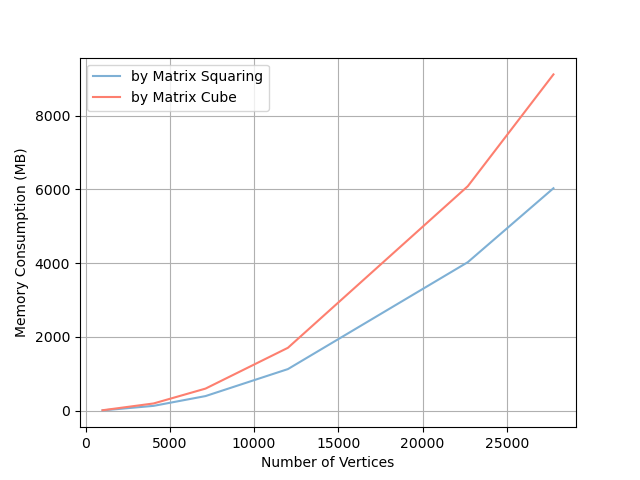
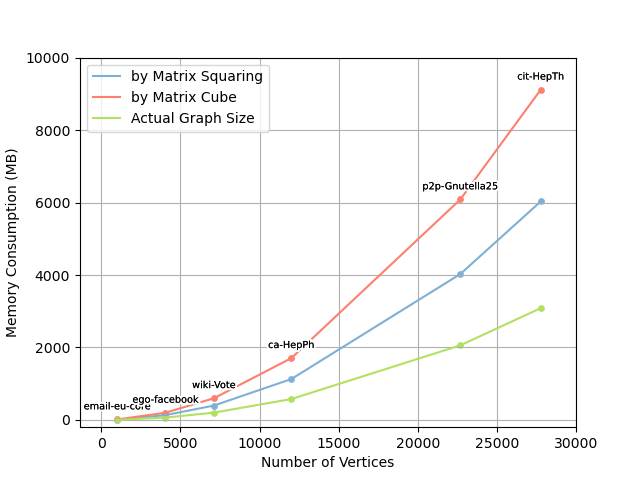
plots adjustements

diff --git a/experimentations/plots/MatrixVV/SGEMMvsSSYMMNincreasing.py b/experimentations/plots/MatrixVV/SGEMMvsSSYMMNincreasing.py
@@ -1,8 +1,7 @@
 import os
 import matplotlib.pyplot as plt
-from matplotlib import patheffects  # Importing patheffects module
+from matplotlib import patheffects 
 
-# Data
 names = ['email-eu-core', 'ego-facebook', 'wiki-Vote', 'ca-HepPh', 'p2p-Gnutella25', 'cit-HepTh']
 x = [1005, 4039, 7115, 12008, 22687, 27770]  # X-axis values
 y1 = [50.272, 1594.24, 7884.23, 36253.2, 258631, 423290.0]  # SQUARE_SGEMM
@@ -10,7 +9,6 @@ y2 = [47.5808, 1637.14, 7848.04, 35590.6, 253533.0, 430125.0]  # SQUARE_SSYMM
 y3 = [84.2148, 3062.32, 15432.5, 72320.1, 520383.0, 857926.0]  # CUBE_SGEMM
 y4 = [82.4794, 3053.64, 15153.0, 70376.5, 502324.0, 850689.0]  # CUBE_SSYMM
 
-# Error rates (minimum and maximum values)
 y1_min = [50.272 - 43.9203, 1594.24 - 1554.81, 7884.23 - 7794.17, 36253.2 - 35727.5, 258631 - 254947.0, 423290.0 - 416294.0]
 y1_max = [79.7560 - 50.272, 1751.35 - 1594.24, 8078.43 - 7884.23, 37430.9 - 36253.2, 265854.0 - 258631, 429604.0 - 423290.0]
 y2_min = [47.5808 - 46.8652, 1637.14 - 1514.95, 7848.04 - 7660.52, 35590.6 - 35222.9, 253533.0 - 243195.0, 430125.0 - 417737.0]
@@ -20,46 +18,38 @@ y3_max = [105.967 - 84.2148, 3118.67 - 3062.32, 15607.3 - 15432.5, 74949.7 - 723
 y4_min = [82.4794 - 77.7922, 3053.64 - 2989.09, 15153.0 - 15071.7, 70376.5 - 69612.1, 502324.0 - 491920.0, 850689.0 - 845556.0]
 y4_max = [88.7619 - 82.4794, 3488.67 - 3053.64, 15640.2 - 15153.0, 74573.3 - 70376.5, 511877.0 - 502324.0, 860742.0 - 850689.0]
 
-# Plotting
 plt.figure(figsize=(10, 6))
 
-# Plot data
 plt.plot(x, y1, label='by Matrix Squaring using SGEMM', color='#ff5733')  # SGEMM
 plt.plot(x, y2, label='by Matrix Squaring using SSYMM', color='#33ffbd')  # SSYMM
 plt.plot(x, y3, label='by Matrix Cube using SGEMM', color='#ff338a')  # SGEMM
 plt.plot(x, y4, label='by Matrix Cube using SSYMM', color='#3366ff')  # SSYMM
 
-# Add error bars
 plt.errorbar(x, y1, yerr=[y1_min, y1_max], capsize=5, label='_error', color='#ff5733', alpha=0.5)  # SGEMM
 plt.errorbar(x, y2, yerr=[y2_min, y2_max], capsize=5, label='_error', color='#33ffbd', alpha=0.5)  # SSYMM
 plt.errorbar(x, y3, yerr=[y3_min, y3_max], capsize=5, label='_error', color='#ff338a', alpha=0.5)  # SGEMM
 plt.errorbar(x, y4, yerr=[y4_min, y4_max], capsize=5, label='_error', color='#3366ff', alpha=0.5)  # SSYMM
 
-# Define function to add contour to the text
 def add_contour(text):
     return [patheffects.withStroke(linewidth=3, foreground='white'), patheffects.Normal()]
 
-# Annotate error bars with min, avg, max values
 for i in range(len(x)):
-    # SGEMM colors
+    #SGEMM colors
     text1 = plt.text(x[i] + 100, y1[i] - 12000, f'+{y1_max[i]:.2f}\n{y1[i]:.2f}\n-{y1_min[i]:.2f}', ha='left', va='top', fontsize=6, color='#ff5733')
     text1.set_path_effects(add_contour(text1))  # Add contour to the text
     text2 = plt.text(x[i] + 100, y3[i] + 12000, f'+{y3_max[i]:.2f}\n{y3[i]:.2f}\n-{y3_min[i]:.2f}', ha='left', va='bottom', fontsize=6, color='#ff338a')
     text2.set_path_effects(add_contour(text2))  # Add contour to the text
     
-    # SSYMM colors
+    #SSYMM colors
     text3 = plt.text(x[i] - 100, y2[i] - 12000, f'+{y2_max[i]:.2f}\n{y2[i]:.2f}\n-{y2_min[i]:.2f}', ha='right', va='top', fontsize=6, color='#33dd33')
     text3.set_path_effects(add_contour(text3))  # Add contour to the text
     text4 = plt.text(x[i] - 100, y4[i] + 12000, f'+{y4_max[i]:.2f}\n{y4[i]:.2f}\n-{y4_min[i]:.2f}', ha='right', va='bottom', fontsize=6, color='#3366ff')
     text4.set_path_effects(add_contour(text4))  # Add contour to the text
 
-    # graph name
+    #Graph name
     text5 = plt.text(x[i], y3[i] + 110000, names[i], ha='center', va='top', fontsize=8, color='black')
     text5.set_path_effects(add_contour(text5))
 
-
-
-# Labels and title
 plt.xlabel('Number of Vertices')
 plt.ylabel('Running Time (ms)')
 plt.title('BLAS functions comparaison over n')
@@ -70,7 +60,7 @@ plt.yticks(range(-100000, 1000001, 100000))
 
 
 # Padding at the bottom and right
-plt.xlim(- 1000, 30000)
+plt.xlim(-1000, 30000)
 plt.ylim(-90000, 990000)
 
 # Show plot

diff --git a/experimentations/plots/MatrixVV/NaiveNincreasingMemory.py b/experimentations/plots/MatrixVV/NaiveNincreasingMemory.py
@@ -1,18 +1,36 @@
 import os
 import matplotlib.pyplot as plt
+from matplotlib import patheffects
 
+names = ['email-eu-core', 'ego-facebook', 'wiki-Vote', 'ca-HepPh', 'p2p-Gnutella25', 'cit-HepTh']
 num_vertices = [1005, 4039, 7115, 12008, 22687, 27770]
 memory_1 = [9.212, 132.476, 397.072, 1128.804, 4026.228, 6029.328 ] 
 memory_2 = [13.2521, 197.730, 599.565, 1705.572, 6085.027, 9114.019 ]
+actual_size = [4.040, 65.254, 202.492, 576.768, 2058.799, 3084.691 ]
+
+def add_contour(text):
+    return [patheffects.withStroke(linewidth=3, foreground='white'), patheffects.Normal()]
 
 #memory_1 = [13.372, 198.248, 595.112, 1692.820, 6038.800, 9043.372 ] 
 #memory_2 = [17.412, 263.502, 797.605, 2269.588, 8097.599, 12128.063 ]
 
 plt.plot(num_vertices, memory_1, color="#7eb0d5", label='by Matrix Squaring')
 plt.plot(num_vertices, memory_2, color="#fd7f6f", label='by Matrix Cube')
+plt.plot(num_vertices, actual_size, color="#b2e061", label='Actual Graph Size')
+
+plt.scatter(num_vertices, memory_1, color="#7eb0d5",s=15)
+plt.scatter(num_vertices, memory_2, color="#fd7f6f",s=15)
+plt.scatter(num_vertices, actual_size, color="#b2e061",s=15)
+
+for i in range(len(names)):
+    text = plt.text(num_vertices[i], memory_2[i] + 500, names[i], ha='center', va='top', fontsize=7, color='black')
+    text.set_path_effects(add_contour(text))
 
 plt.xlabel('Number of Vertices')
 plt.ylabel('Memory Consumption (MB)')
+
+plt.xlim(-1350, 30000)
+plt.ylim(-200, 10000)
 
 plt.legend()
 
